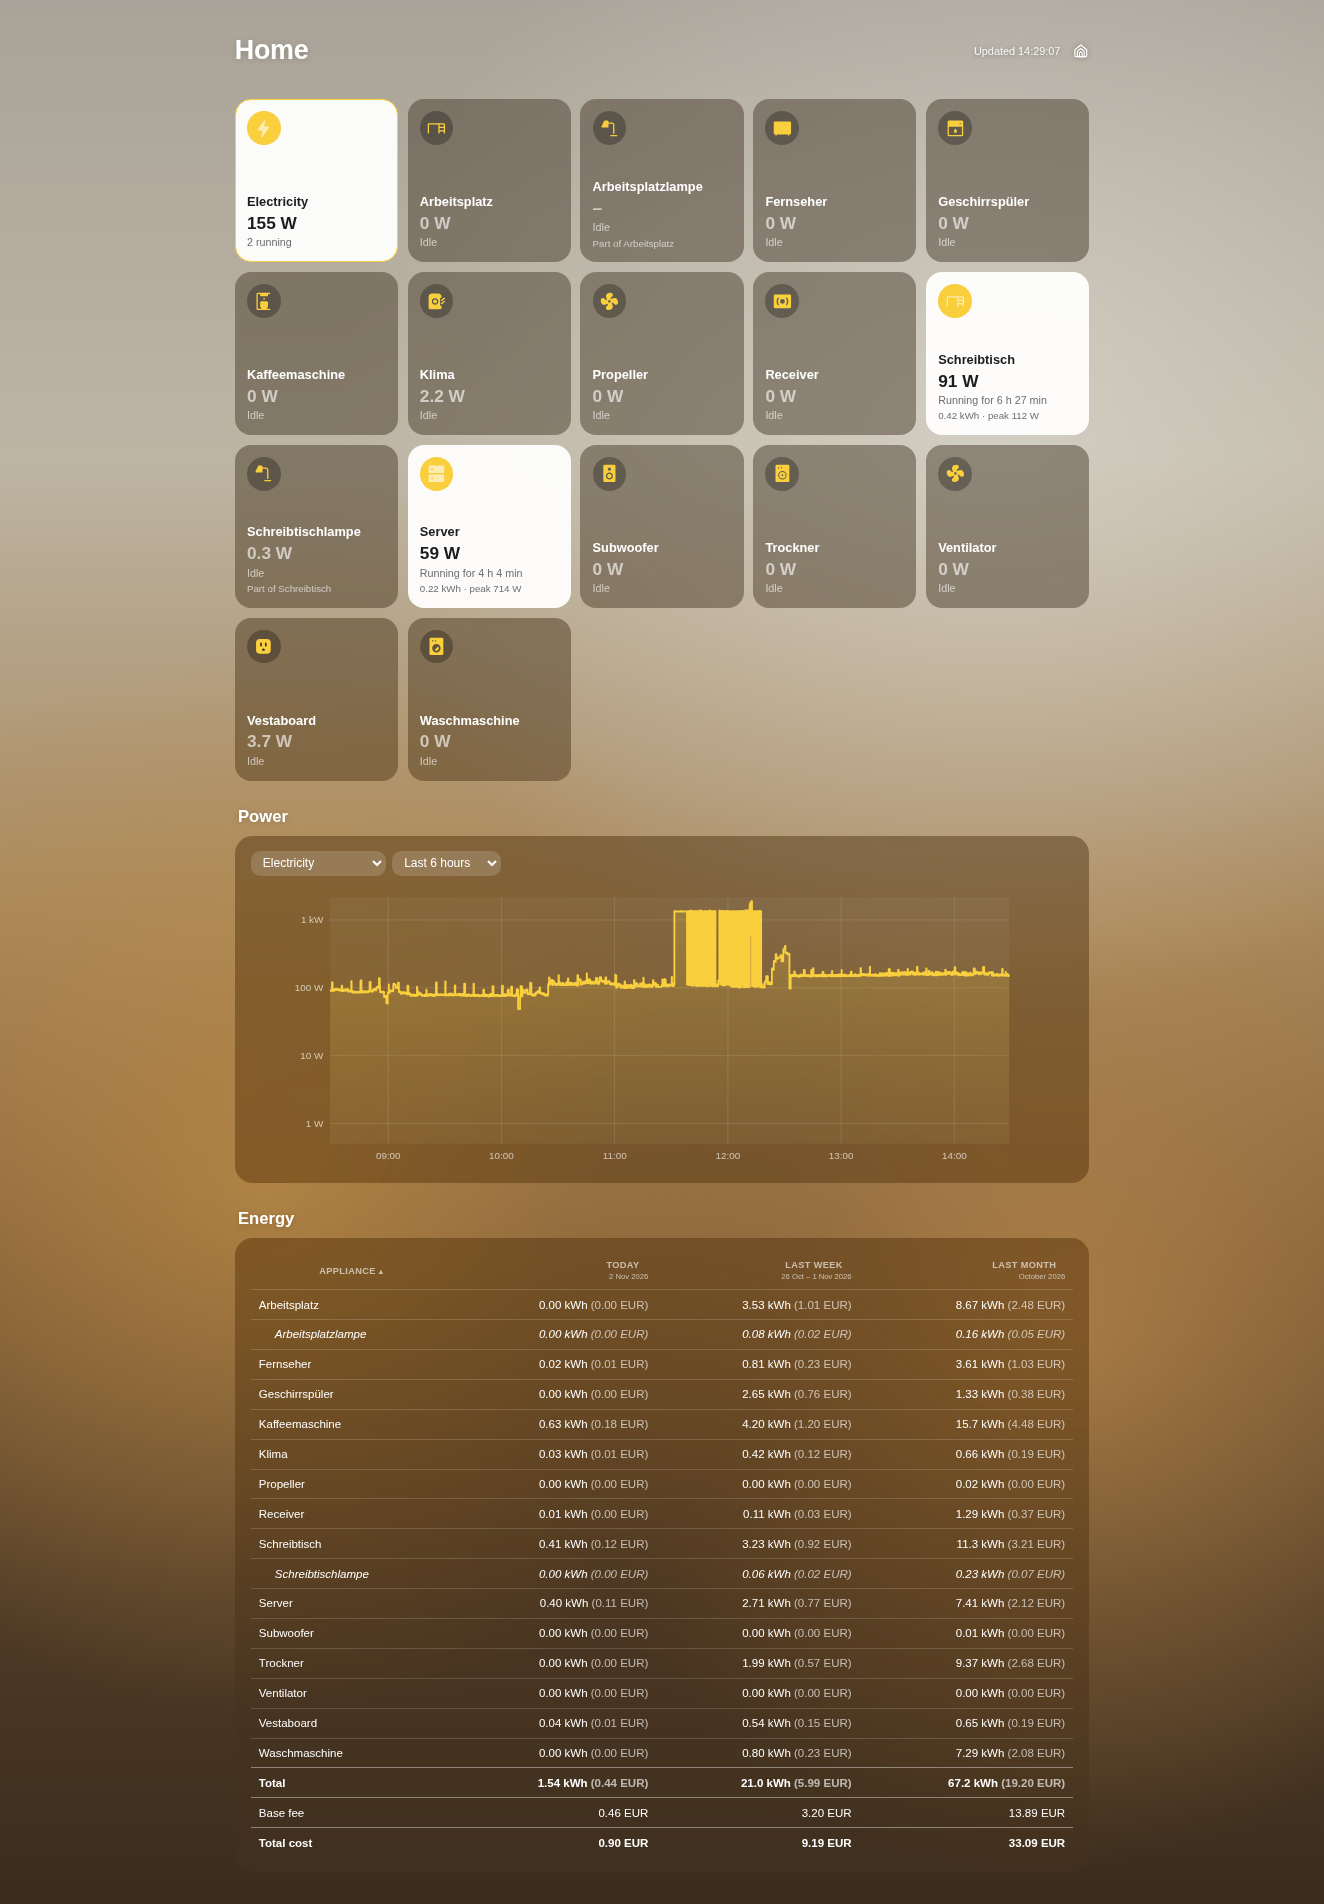
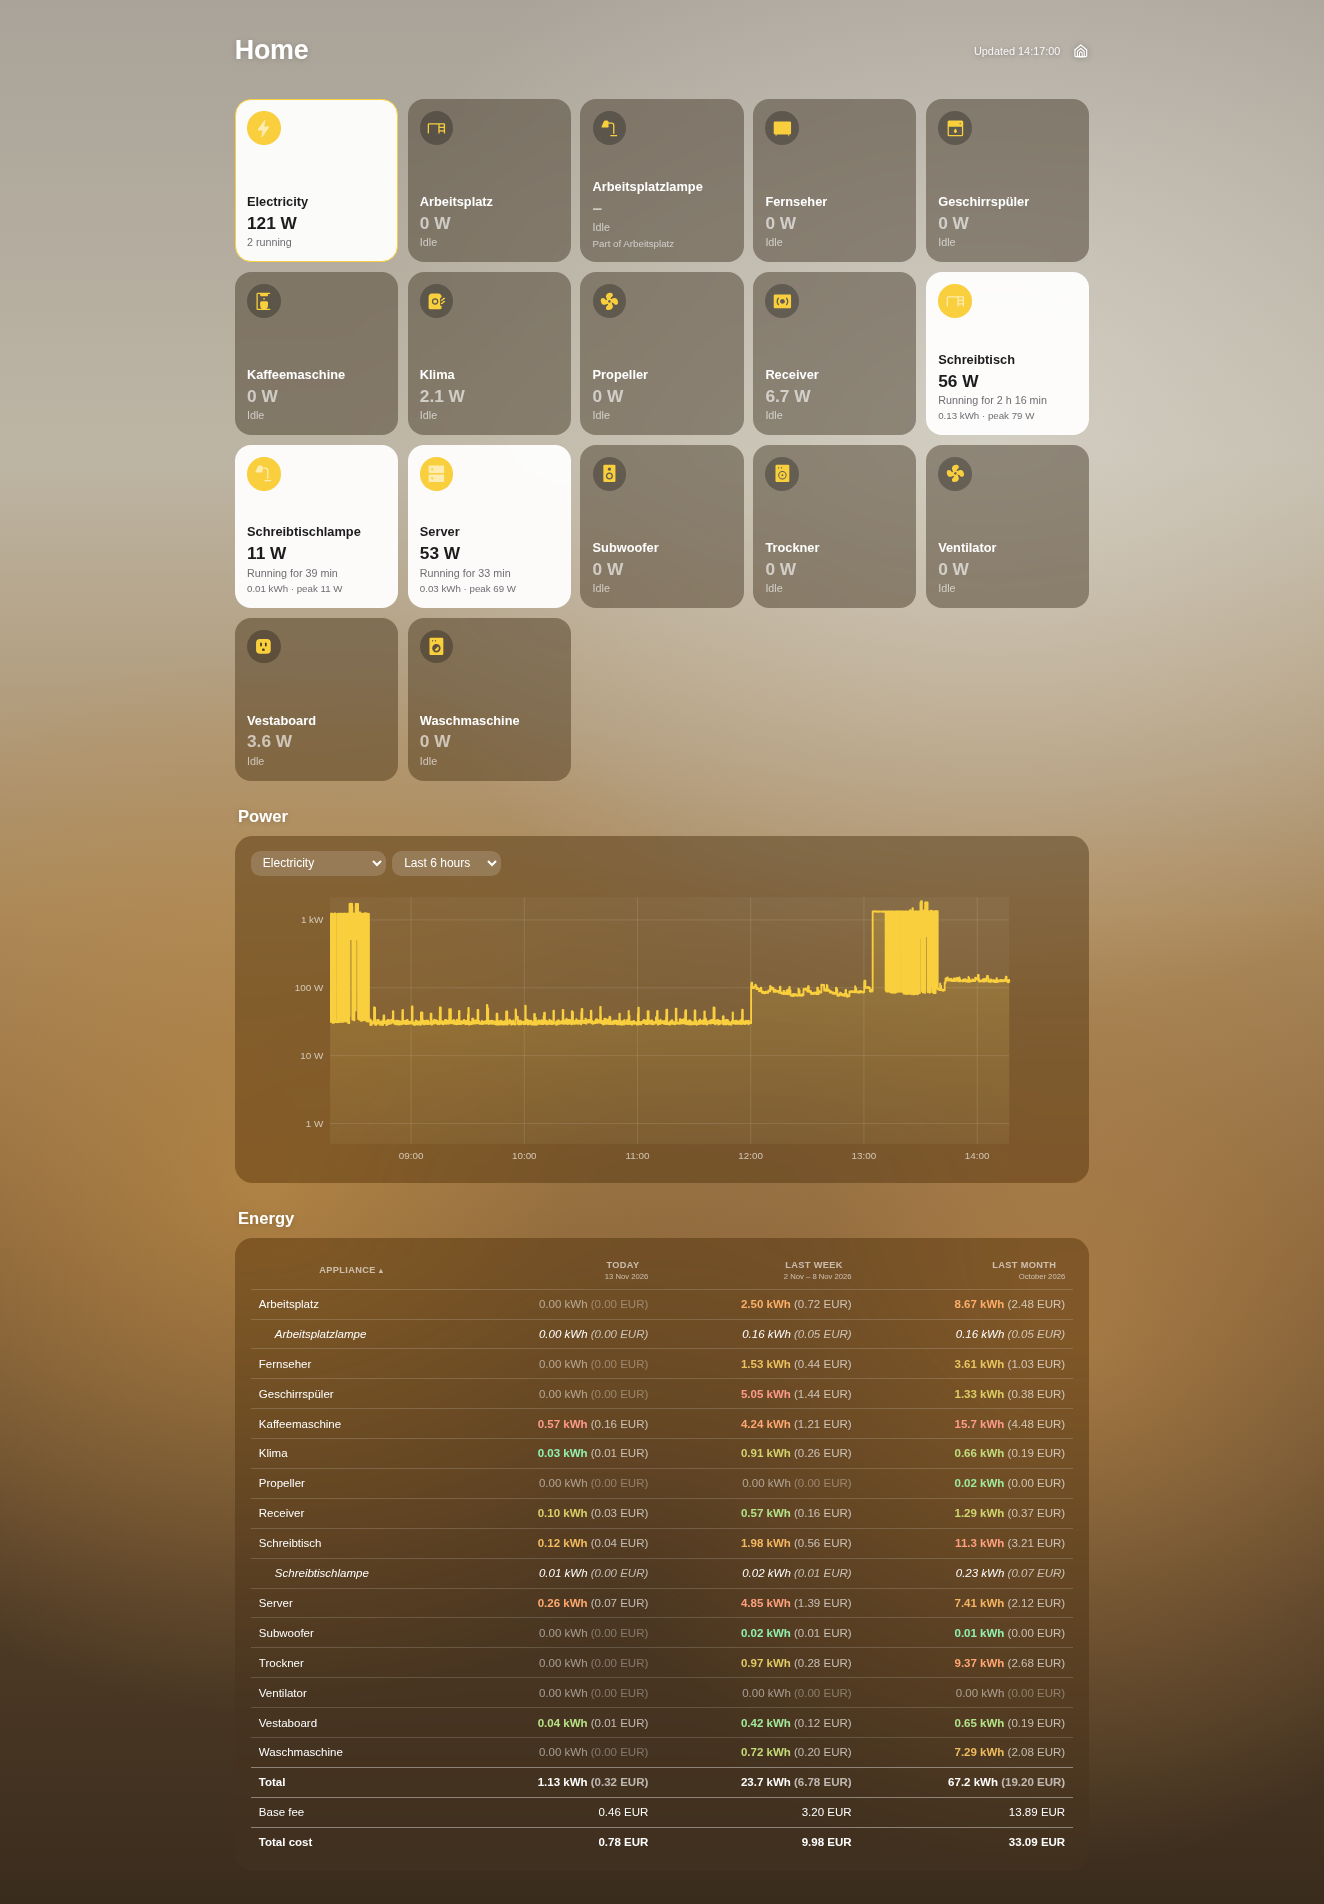
Dashboard screenshots with the coloured statistics
Light, dark and the Home look anew; the README says what the colours mean.

Claude-Session: https://claude.ai/code/session_01FXXeyGX9nkbXjdAycGNCsJ

diff --git a/README.md b/README.md
@@ -654,7 +654,7 @@ A web page with every appliance at a glance, for a tablet on the wall or a
 phone on the sofa, without logging in to Homebridge. It opens in the **Home**
 look, after Apple's Home app:
 
-<img src="https://raw.githubusercontent.com/rummeyer/homebridge-appliance-monitor/main/docs/screenshots/dashboard-home.png" alt="The dashboard in the Home look: square glass tiles on a warm wallpaper, each with its icon — a fan, a washing machine, a dryer, a desk, a computer, a coffee machine, a TV and more — Electricity with what all plugs draw together, the running Schreibtisch and Server as white tiles, two lamps marked as part of another appliance, the power chart of all plugs and the statistics" width="760">
+<img src="https://raw.githubusercontent.com/rummeyer/homebridge-appliance-monitor/main/docs/screenshots/dashboard-home.png" alt="The dashboard in the Home look: square glass tiles on a warm wallpaper, each with its icon — a fan, a washing machine, a dryer, a desk, a computer, a coffee machine, a TV and more — Electricity with what all plugs draw together, the running Schreibtisch and Server as white tiles, two lamps marked as part of another appliance, the power chart of all plugs and the statistics, each period from green for the least used to red for the most" width="760">
 
 - a tile per appliance with what it draws **now**, whether it is running and
   for how long, what the cycle has used so far, and the phases it is in;
@@ -675,7 +675,8 @@ look, after Apple's Home app:
   click its tile, or pick it from the list. It opens on all plugs and the
   last 6 hours; the plug and the time picked are kept for the next visit,
   in this browser;
-- the **statistics**, as on the Statistics tab.
+- the **statistics**, as on the Statistics tab, each period in colour: from
+  green for the appliance that used least to red for the one that used most.
 
 It updates itself every few seconds. On a phone, the tiles are two side by
 side:
